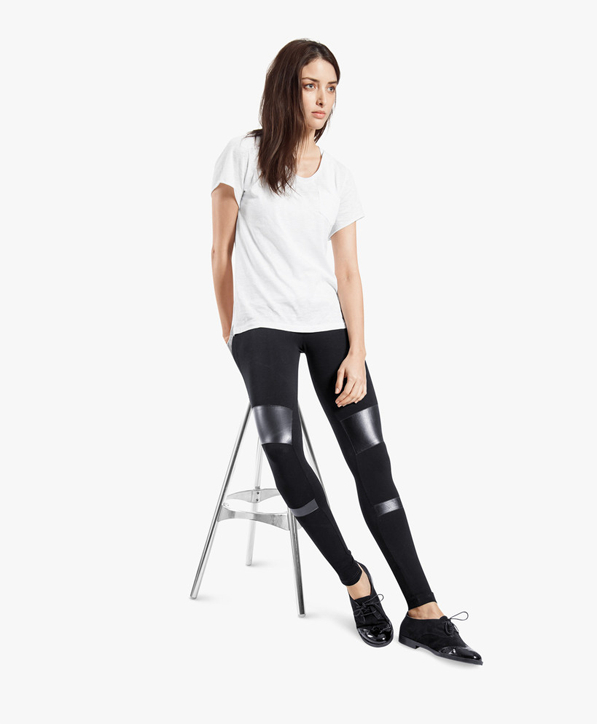
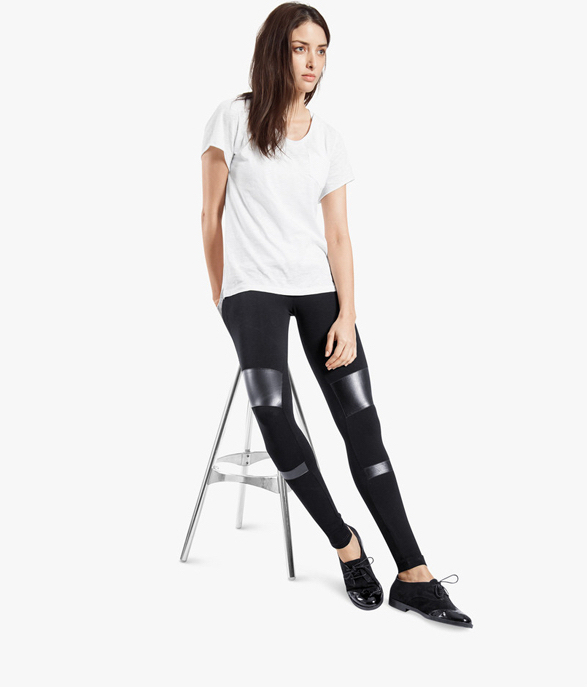
done

diff --git a/product.html b/product.html
@@ -709,7 +709,7 @@
     </div>
 </div>
 <div class="store__info">
-    <div class="container store__info_main"> 
+    <div class="container store__info_main">
         <article class="store__info_main-p">
             <div class="store__info_main-p-p">
                 <h5 class="options__item_header">Free Delivery</h5>

diff --git a/style.css b/style.css
@@ -1221,8 +1221,8 @@ body {
 /*End of page Product*/
 /*Page Single Item*/
 .single__img {
-  height: 730px;
-  line-height: 730px;
+  height: 775px;
+  line-height: 775px;
   border: 1px solid #eaeaea;
   background-color: #f7f7f7;
   display: flex;

diff --git a/style.sass b/style.sass
@@ -1197,8 +1197,8 @@ body
 /*Page Single Item*/
 
 .single__img
-  height: 730px
-  line-height: 730px
+  height: 775px
+  line-height: 775px
   border: 1px solid #eaeaea
   background-color: #f7f7f7
   display: flex
